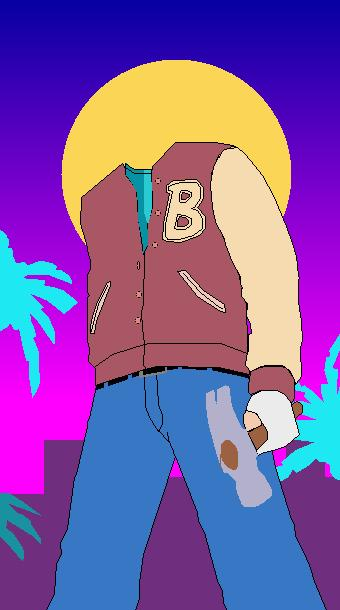
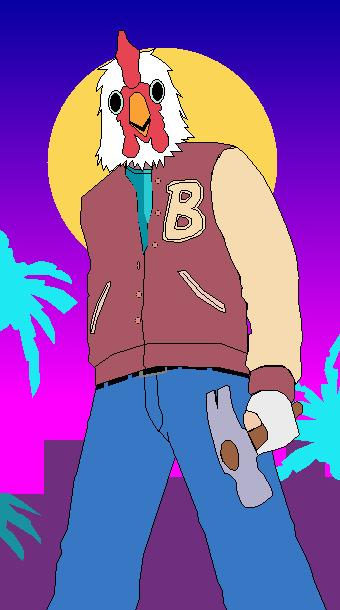
mascara creada

diff --git a/src/graficacion/jacket/Mascara.java b/src/graficacion/jacket/Mascara.java
@@ -12,18 +12,160 @@ public class Mascara extends JPanel{
     }
     public void paint(Graphics g)
     {
+        Graphics2D g2d;
         Color blancopluma = new Color(255,255,255);
+        Color rojocrestabarbilla = new Color(230,68,83);
+        Color amarillopico = new Color(249,161,53);
+        Color azulojo = new Color(196,228,217);
+        
         //plumas
         int [] plumax = {
-            
+            115,108, 97,107,101, 99, 97, 96,102,101,
+            100,100, 99, 97,101,101,100,100, 99, 96,
+             95, 98, 97,101,101,103,106,109,120,120,
+            126,126,132,134,137,142,145,151,153,156,
+            159,163,164,164,174,170,182,175,187,181,
+            188,187,194,184,188,181,179,182,187,181,
+            176,178,182,176,173,167,172,166,161,155,
+            152,150,155,148,123
         };
         int [] plumay = {
-            
+             58, 63, 69, 69, 76, 80, 83, 91, 85, 91,
+             97,104,109,115,109,138,140,145,148,154,
+            156,154,165,157,163,170,165,172,163,166,
+            160,167,160,167,163,171,161,167,160,168,
+            159,167,164,156,156,151,151,143,142,139,
+            139,137,137,127,127,117,110,116,119,108,
+             93, 94, 97, 89, 86, 70, 70, 64, 60, 56,
+             55, 54, 48, 51, 53
         };
         g.setColor(blancopluma);
-        g.fillPolygon(plumax,plumay,1);
-        g.drawPolygon(plumax, plumay,1);
+        g.fillPolygon(plumax,plumay,75);
+        g.setColor(Color.BLACK);
+        g.drawPolygon(plumax, plumay,75);
         
+        //barbilla
+        
+        int[] barbillax = {
+        126,123,119,121,117,117,116,117,120,120,
+        122,123,125,124,123,122,127,134,138,139,
+        134,144,148,150,151,151,152,152,158,162,
+        168,168,167,167,163,163,164,164,162,163,
+        158,160,161,161,159,148,146,140
+        };
+        int [] baribllay = {
+         86, 86, 93, 93,114,115,119,121,120,125,
+        126,134,136,140,145,153,157,157,152,146,
+        134,142,142,137,139,144,144,147,152,152,
+        145,136,136,134,129,128,126,123,120,117,
+        111,110,108,106,102, 84, 83, 82
+        };        
+        g.setColor(rojocrestabarbilla);
+        g.fillPolygon(barbillax,baribllay,48);
+        g.setColor(Color.BLACK);
+        g.drawPolygon(barbillax, baribllay,48);
+        
+        //cresta
+        
+        int [] crestax = {
+         115,116,116,117,117,119,121,121,122,122,
+         123,123,124,124,129,133,135,140,140,138,
+         138,139,139,137,130,126,126,123,119,118,
+         118,117,117,116,116,115
+        };
+        int [] crestay = {
+          57, 57, 59, 59, 62, 65, 67, 69, 70, 76,
+          77, 81, 81, 83, 88, 88, 87, 81, 74, 71,
+          59, 57, 50, 49, 43, 38, 35, 30, 30, 32,
+          35, 35, 50, 51, 53, 54
+        };
+        g.setColor(rojocrestabarbilla);
+        g.fillPolygon(crestax, crestay, 36);
+        g.setColor(Color.BLACK);
+        g.drawPolygon(crestax, crestay, 36);
+        
+        //pico
+        
+        int [] fondopicox = {
+            129,150,150,143,129
+        };
+        int [] fondopicoy = {
+            121,114,121,132,122
+        };
+        g.fillPolygon(fondopicox, fondopicoy, 4);
+        
+        int [] picox = {
+          129,142,150,144,139,134,129,129,142  
+        };
+        int [] picoy = {
+          121,127,115, 97, 92, 92, 97,121,128
+        };
+        g.setColor(amarillopico);
+        g.fillPolygon(picox, picoy, 9);
+        g.setColor(Color.BLACK);
+        g.drawPolygon(picox, picoy, 9);
+        
+        int [] pico2x = {
+        129,129,144,146,150,143,141
+        };
+        int [] pico2y = {
+        122,123,136,136,119,131,130
+        };
+        
+        g.setColor(amarillopico);
+        g.fillPolygon(pico2x, pico2y, 7);
+        g.setColor(Color.BLACK);
+        g.drawPolygon(pico2x, pico2y, 7);
+        
+        g.setColor(azulojo);
+        g.fillOval(108,90, 15, 24);
+        g.setColor(Color.BLACK);
+        g.drawOval(108,90, 15, 24);
+        g.drawOval(110,93,10,18);
+        g.fillOval(110,93,10,18);
+        
+        g.setColor(azulojo);
+        g.fillOval(149,79, 15, 24);
+        g.setColor(Color.BLACK);
+        g.drawOval(149,79, 15, 24);
+        g.drawOval(152,82,10,18);
+        g.fillOval(152,82,10,18);
+        
+//       int [] ojox = {
+//           149,150,151,152,153,
+//           157,158,160,161,162,163,
+//           163,163,162,161,160,
+//           156,154,153,151,149
+//       };
+//       int [] ojoy = {
+//            85, 84, 83, 81, 79,
+//            79, 81, 82, 84, 86, 87,
+//            93, 99,100,101,102,
+//           102,101, 99, 97, 94
+//       };
+//        
+//        g.setColor(azulojo);
+//        g.fillPolygon(ojox, ojoy, 21);
+//        g.setColor(Color.BLACK);
+//        g.drawPolygon(ojox, ojoy, 21);
+//            
+//        int [] pupilax ={
+//            152,152,153,154,
+//            157,159,160,161,161,
+//            160,
+//            159,157,
+//            155,154,152
+//        };
+//        int [] pupilay ={
+//             92, 85, 84, 82,
+//             82, 84, 86, 88, 97,
+//             98,
+//             99, 99,
+//             97, 96, 94
+//        };
+//
+//        g.setColor(Color.BLACK);
+//        g.fillPolygon(pupilax, pupilay, 15);
     }
 }
 

diff --git a/src/graficacion/jacket/GraficacionJacket.java b/src/graficacion/jacket/GraficacionJacket.java
@@ -43,7 +43,11 @@ public class GraficacionJacket extends JFrame{
         Pantalon pantalondibujo = new Pantalon();
         brazos brazosdibujo = new brazos();
         manomartillo manoderecha = new manomartillo();
+        Mascara mascaradibujo = new Mascara();
 //el que se muestra primero va arriba,lo que seria la mascara, al final debe estar el degradado
+        mascaradibujo.setBounds(0,0,350,650);
+        window.getContentPane().add(mascaradibujo);
+
         manoderecha.setBounds(0, 0, 350, 650);
         window.getContentPane().add(manoderecha);
 

diff --git a/src/graficacion/jacket/sol.java b/src/graficacion/jacket/sol.java
@@ -14,7 +14,7 @@ public class sol extends JPanel{
         Graphics2D g2d=(Graphics2D)g;
         Color amarillosol = new Color(251, 213, 86);
         g.setColor(amarillosol);
-        g.fillOval(61, 59, 230, 230);
+        g.fillOval(47, 47, 230, 230);
         
     }
 }
